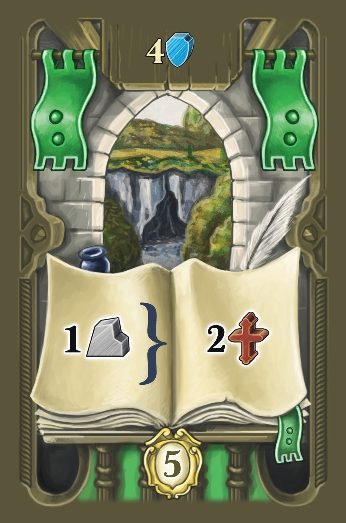
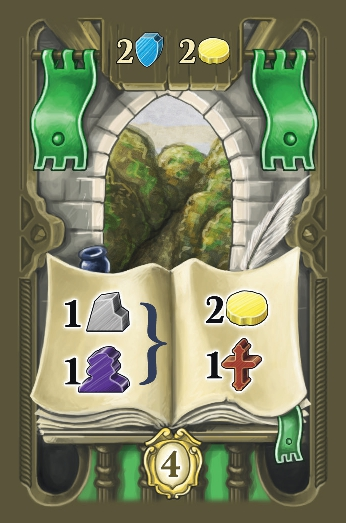
Created base production

diff --git a/ingswAM2021-Dottor-Corti-Cutrupi/src/main/java/it/polimi/ingsw/client/gui/controllers/BaseProductionController.java b/ingswAM2021-Dottor-Corti-Cutrupi/src/main/java/it/polimi/ingsw/client/gui/controllers/BaseProductionController.java
@@ -1,0 +1,120 @@
+package it.polimi.ingsw.client.gui.controllers;
+
+import it.polimi.ingsw.client.actions.mainActions.productionActions.BaseProductionAction;
+import it.polimi.ingsw.client.gui.GUI;
+import it.polimi.ingsw.model.resource.*;
+import javafx.fxml.FXML;
+import javafx.scene.control.Button;
+import javafx.scene.control.Label;
+import javafx.scene.input.MouseEvent;
+
+import java.util.ArrayList;
+
+public class BaseProductionController implements GUIController{
+    @FXML private Button useButton;
+    @FXML private Button produceButton;
+    @FXML private Label coinCount;
+    @FXML private Label stoneCount;
+    @FXML private Label servantCount;
+    @FXML private Label shieldCount;
+    private int numOfRequired;
+    private int numOfProduced;
+    private GUI gui;
+    private int coins;
+    private int stones;
+    private int servants;
+    private int shields;
+    private ArrayList<ResourceType> resourcesUsed;
+    private ArrayList<ResourceType> resourcesProduced;
+    boolean isDiscarding;
+
+    
+    
+    @Override
+    public void setGui(GUI gui) {
+        this.gui=gui;
+    }
+
+    public void removeCoin(MouseEvent mouseEvent) {
+        if(coins==0)    return;
+        coins--;
+        coinCount.setText(Integer.toString(coins));
+        checkNum();
+    }
+
+    public void addCoin(MouseEvent mouseEvent) {
+        coins++;
+        coinCount.setText(Integer.toString(coins));
+        checkNum();
+    }
+
+    public void removeStone(MouseEvent mouseEvent) {
+        if (stones==0)  return;;
+        stones--;
+        coinCount.setText(Integer.toString(stones));
+        checkNum();
+    }
+
+    public void addStone(MouseEvent mouseEvent) {
+        stones++;
+        coinCount.setText(Integer.toString(stones));
+        checkNum();
+    }
+
+    public void removeServant(MouseEvent mouseEvent) {
+        if(servants==0) return;;
+        servants--;
+        coinCount.setText(Integer.toString(servants));
+        checkNum();
+    }
+
+    public void addServant(MouseEvent mouseEvent) {
+        servants++;
+        coinCount.setText(Integer.toString(servants));
+        checkNum();
+    }
+
+    public void removeShield(MouseEvent mouseEvent) {
+        if(shields==0)  return;
+        shields--;
+        coinCount.setText(Integer.toString(shields));
+        checkNum();
+    }
+
+    public void addShield(MouseEvent mouseEvent) {
+        shields++;
+        coinCount.setText(Integer.toString(shields));
+        checkNum();
+    }
+
+    public void checkNum(){
+        if (coins+shields+servants+stones==numOfRequired    && isDiscarding){
+            useButton.setOpacity(1);    useButton.setDisable(false);
+        }
+        else if(coins+shields+stones+servants==numOfProduced && !isDiscarding){
+            produceButton.setDisable(false);    produceButton.setOpacity(1);
+        }
+    }
+
+    public void useSelected(MouseEvent mouseEvent) {
+        for(int i=0; i<coins;i++)   resourcesUsed.add(new CoinResource().getResourceType());
+        for(int i=0; i<stones;i++)   resourcesUsed.add(new StoneResource().getResourceType());
+        for(int i=0; i<servants;i++)   resourcesUsed.add(new ServantResource().getResourceType());
+        for(int i=0; i<shields;i++)   resourcesUsed.add(new ShieldResource().getResourceType());
+        coins=0;    stones=0; servants=0; shields=0;        String string= Integer.toString(0);
+        coinCount.setText(string);  stoneCount.setText(string);  servantCount.setText(string);  shieldCount.setText(string);
+        useButton.setOpacity(0);    useButton.setDisable(true);
+        isDiscarding=false;
+    }
+
+    public void produceSelected(MouseEvent mouseEvent) {
+        gui.sendAction(new BaseProductionAction(resourcesUsed,resourcesProduced));
+    }
+
+    public void newTurn(){
+        String string= Integer.toString(0);
+        coinCount.setText(string);      stoneCount.setText(string);     servantCount.setText(string);       shieldCount.setText(string);
+        produceButton.setOpacity(0);    produceButton.setDisable(true);     useButton.setDisable(true);    useButton.setOpacity(0);
+        coins=0; stones=0; servants=0; shields=0;   isDiscarding=true;
+    }
+}

diff --git a/ingswAM2021-Dottor-Corti-Cutrupi/src/main/java/it/polimi/ingsw/client/gui/controllers/GameboardController.java b/ingswAM2021-Dottor-Corti-Cutrupi/src/main/java/it/polimi/ingsw/client/gui/controllers/GameboardController.java
@@ -103,27 +103,27 @@ public class GameboardController implements GUIController{
     }
 
     public void openPurple3(MouseEvent mouseEvent) throws IOException {
-        seeDetails(mouseEvent,8);
-    }
-
-    public void openPurple2(MouseEvent mouseEvent) throws IOException {
-        seeDetails(mouseEvent,7);
-    }
-
-    public void openPurple1(MouseEvent mouseEvent) throws IOException {
-        seeDetails(mouseEvent,6);
-    }
-
-    public void openYellow3(MouseEvent mouseEvent) throws IOException {
         seeDetails(mouseEvent,11);
     }
 
-    public void openYellow2(MouseEvent mouseEvent) throws IOException {
+    public void openPurple2(MouseEvent mouseEvent) throws IOException {
         seeDetails(mouseEvent,10);
     }
 
-    public void openYellow1(MouseEvent mouseEvent) throws IOException {
+    public void openPurple1(MouseEvent mouseEvent) throws IOException {
         seeDetails(mouseEvent,9);
+    }
+
+    public void openYellow3(MouseEvent mouseEvent) throws IOException {
+        seeDetails(mouseEvent,8);
+    }
+
+    public void openYellow2(MouseEvent mouseEvent) throws IOException {
+        seeDetails(mouseEvent,7);
+    }
+
+    public void openYellow1(MouseEvent mouseEvent) throws IOException {
+        seeDetails(mouseEvent,6);
     }
 
     public void seeDetails(MouseEvent mouseEvent, int index) throws IOException {

diff --git a/ingswAM2021-Dottor-Corti-Cutrupi/src/main/java/it/polimi/ingsw/client/gui/utility/DevelopmentCardForGUI.java b/ingswAM2021-Dottor-Corti-Cutrupi/src/main/java/it/polimi/ingsw/client/gui/utility/DevelopmentCardForGUI.java
@@ -1,6 +1,9 @@
 package it.polimi.ingsw.client.gui.utility;
 
 import it.polimi.ingsw.server.messages.jsonMessages.DevelopmentCardMessage;
+import it.polimi.ingsw.server.messages.jsonMessages.SerializationConverter;
+import javafx.beans.property.SimpleStringProperty;
+import javafx.beans.property.StringProperty;
 
 public class DevelopmentCardForGUI{
 
@@ -11,9 +14,14 @@ public class DevelopmentCardForGUI{
     private final int[] prodRequirements;
     private final int[] prodResults;
     private final int victoryPoints;
-    int devCardZone;
+    private int devCardZone;
+    private StringProperty cardName = new SimpleStringProperty();
+    private StringProperty prodCost = new SimpleStringProperty();
+    SerializationConverter converter=new SerializationConverter();
 
     public DevelopmentCardForGUI(DevelopmentCardMessage message) {
+        String string="Development card in zone "+ devCardZone;
+        this.cardName.set(string);
         cardPrice=message.getCardPrice();
         level= message.getLevel();
         color= message.getColor();
@@ -49,5 +57,13 @@ public class DevelopmentCardForGUI{
 
     public int getDevCardZone() {
         return devCardZone;
+    }
+
+    public String getCardName() {
+        return cardName.get();
+    }
+
+    public StringProperty cardNameProperty() {
+        return cardName;
     }
 }

diff --git a/ingswAM2021-Dottor-Corti-Cutrupi/src/main/java/it/polimi/ingsw/client/gui/GUI.java b/ingswAM2021-Dottor-Corti-Cutrupi/src/main/java/it/polimi/ingsw/client/gui/GUI.java
@@ -44,6 +44,7 @@ public class GUI extends Application {
     private final String CHOOSE_ACTION = "actionChoice.fxml";
     private final String GAMEBOARD = "gameboard.fxml";
     private final String DCDETAILS = "devCardDetails.fxml";
+    private final String BASE_PRODUCTION = "baseProduction.fxml";
 
     private boolean showingOtherPlayerDashboard;
     private boolean gameStarted;
@@ -59,7 +60,7 @@ public class GUI extends Application {
 
     private void setup() {
         List<String> fxmList = new ArrayList<>(Arrays.asList(STARTING_MENU,LCDETAILS,INITIALIZATION,LOBBY, CREATION, JOINING, REJOINING, CONNECTION,DASHBOARD,
-                ANOTHER_PLAYER_DASHBOARD,YOUR_LEADER_CARDS,ANOTHER_PLAYER_LEADERCARDS,CHOOSE_ACTION,MARKET,GAMEBOARD,DCDETAILS));
+                ANOTHER_PLAYER_DASHBOARD,YOUR_LEADER_CARDS,ANOTHER_PLAYER_LEADERCARDS,CHOOSE_ACTION,MARKET,GAMEBOARD,DCDETAILS,BASE_PRODUCTION));
         try {
             for (String path : fxmList) {
                 FXMLLoader loader = new FXMLLoader(getClass().getResource("/fxml/" + path));

diff --git a/ingswAM2021-Dottor-Corti-Cutrupi/src/main/java/it/polimi/ingsw/client/actions/mainActions/productionActions/BaseProductionAction.java b/ingswAM2021-Dottor-Corti-Cutrupi/src/main/java/it/polimi/ingsw/client/actions/mainActions/productionActions/BaseProductionAction.java
@@ -1,6 +1,8 @@
 package it.polimi.ingsw.client.actions.mainActions.productionActions;
 
 import it.polimi.ingsw.client.actions.mainActions.ProductionAction;
+import it.polimi.ingsw.client.gui.utility.DevelopmentCardForGUI;
+import it.polimi.ingsw.client.gui.utility.LeaderCardForGUI;
 import it.polimi.ingsw.controller.GameHandler;
 import it.polimi.ingsw.model.resource.ResourceType;
 import it.polimi.ingsw.server.messages.printableMessages.*;
